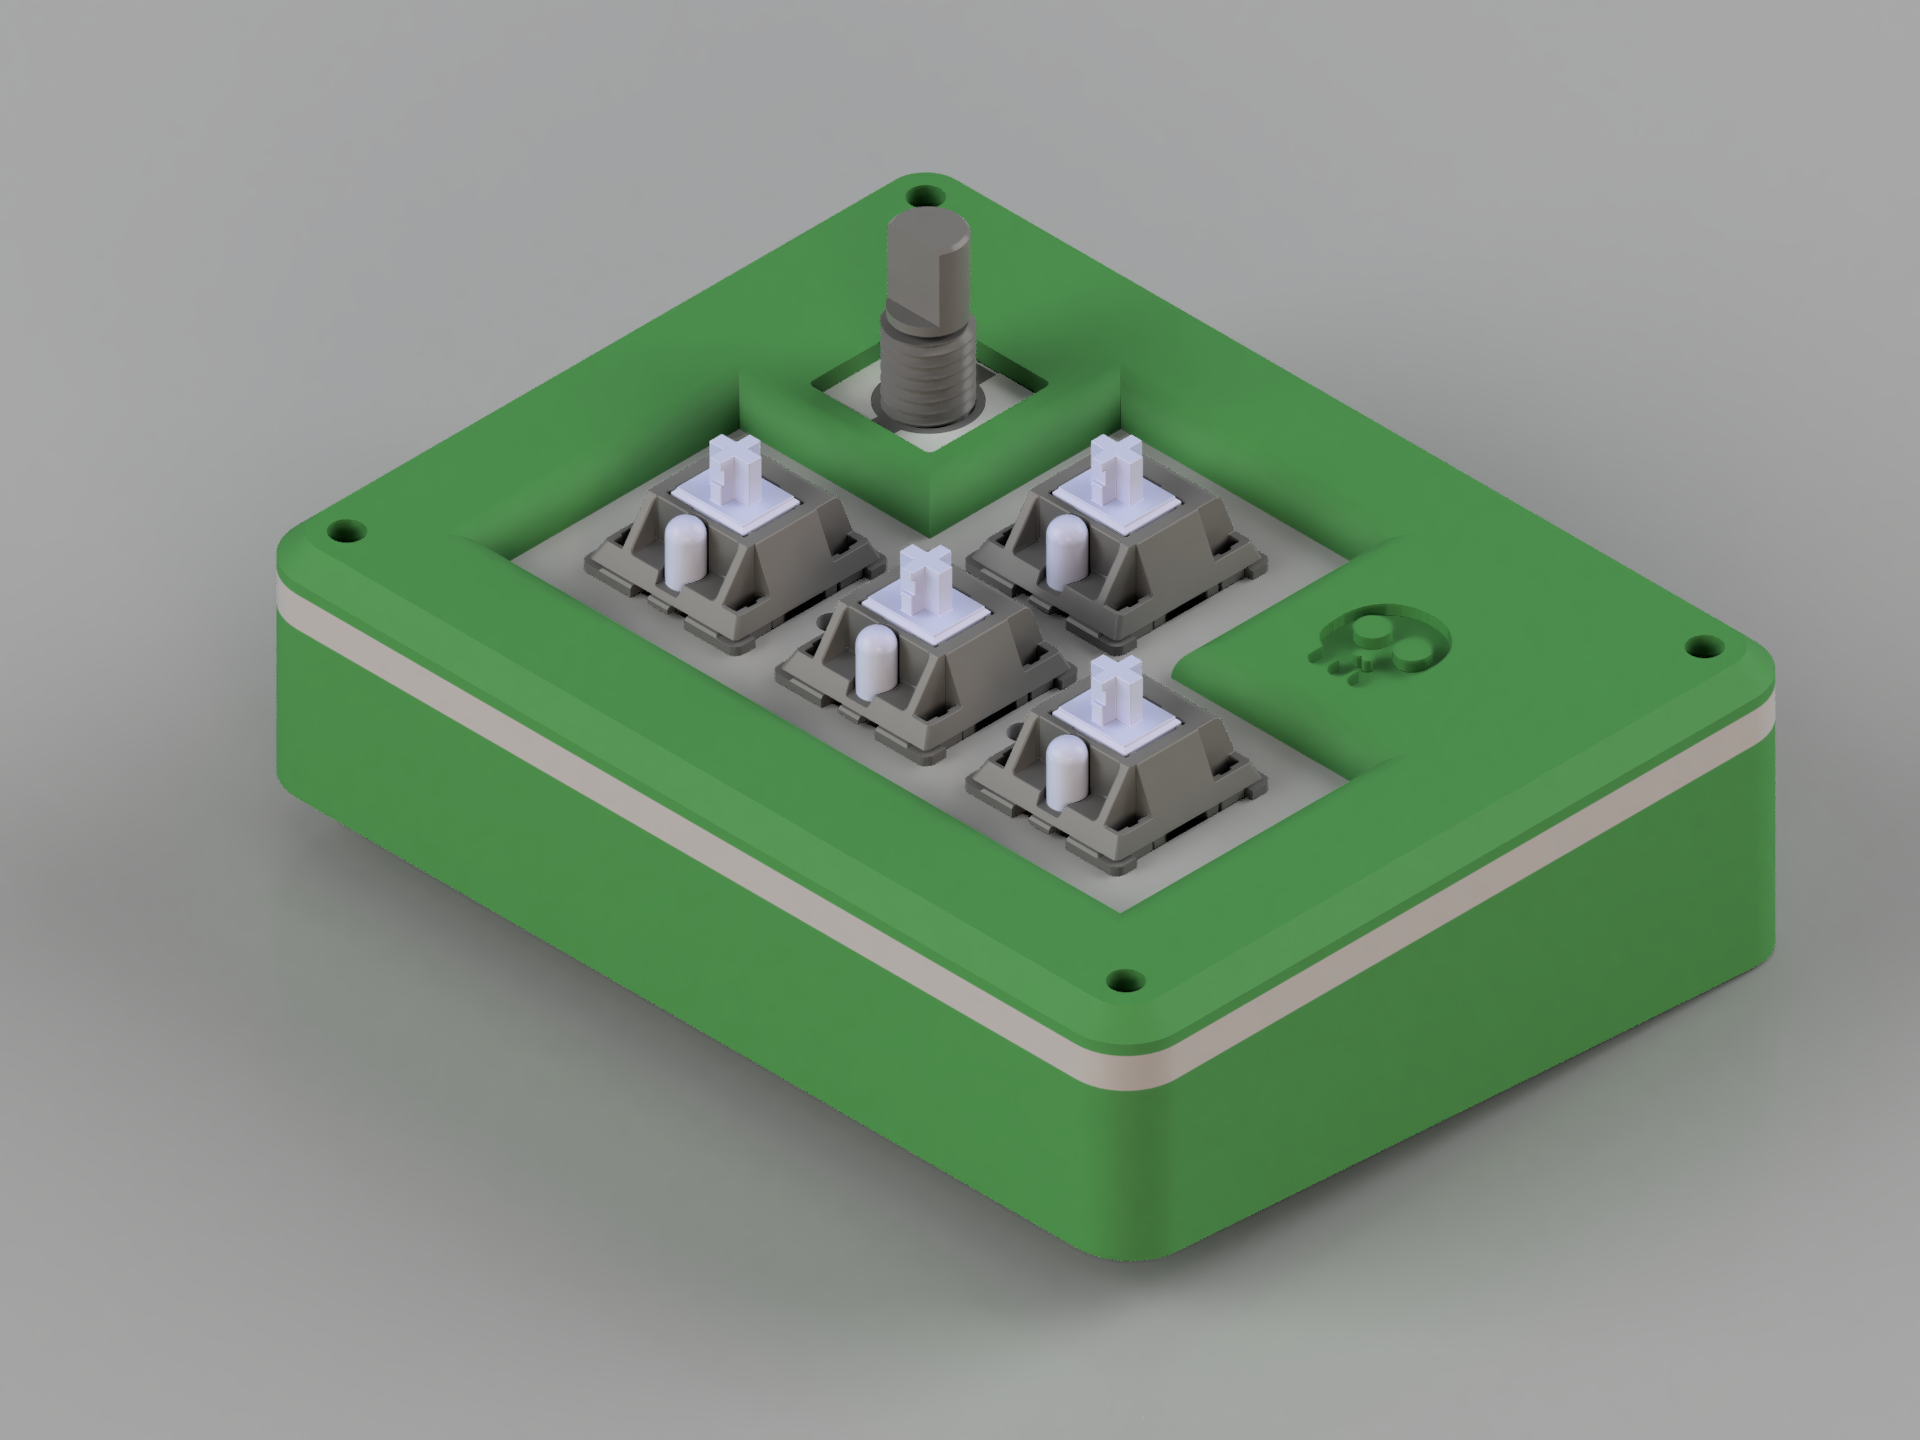
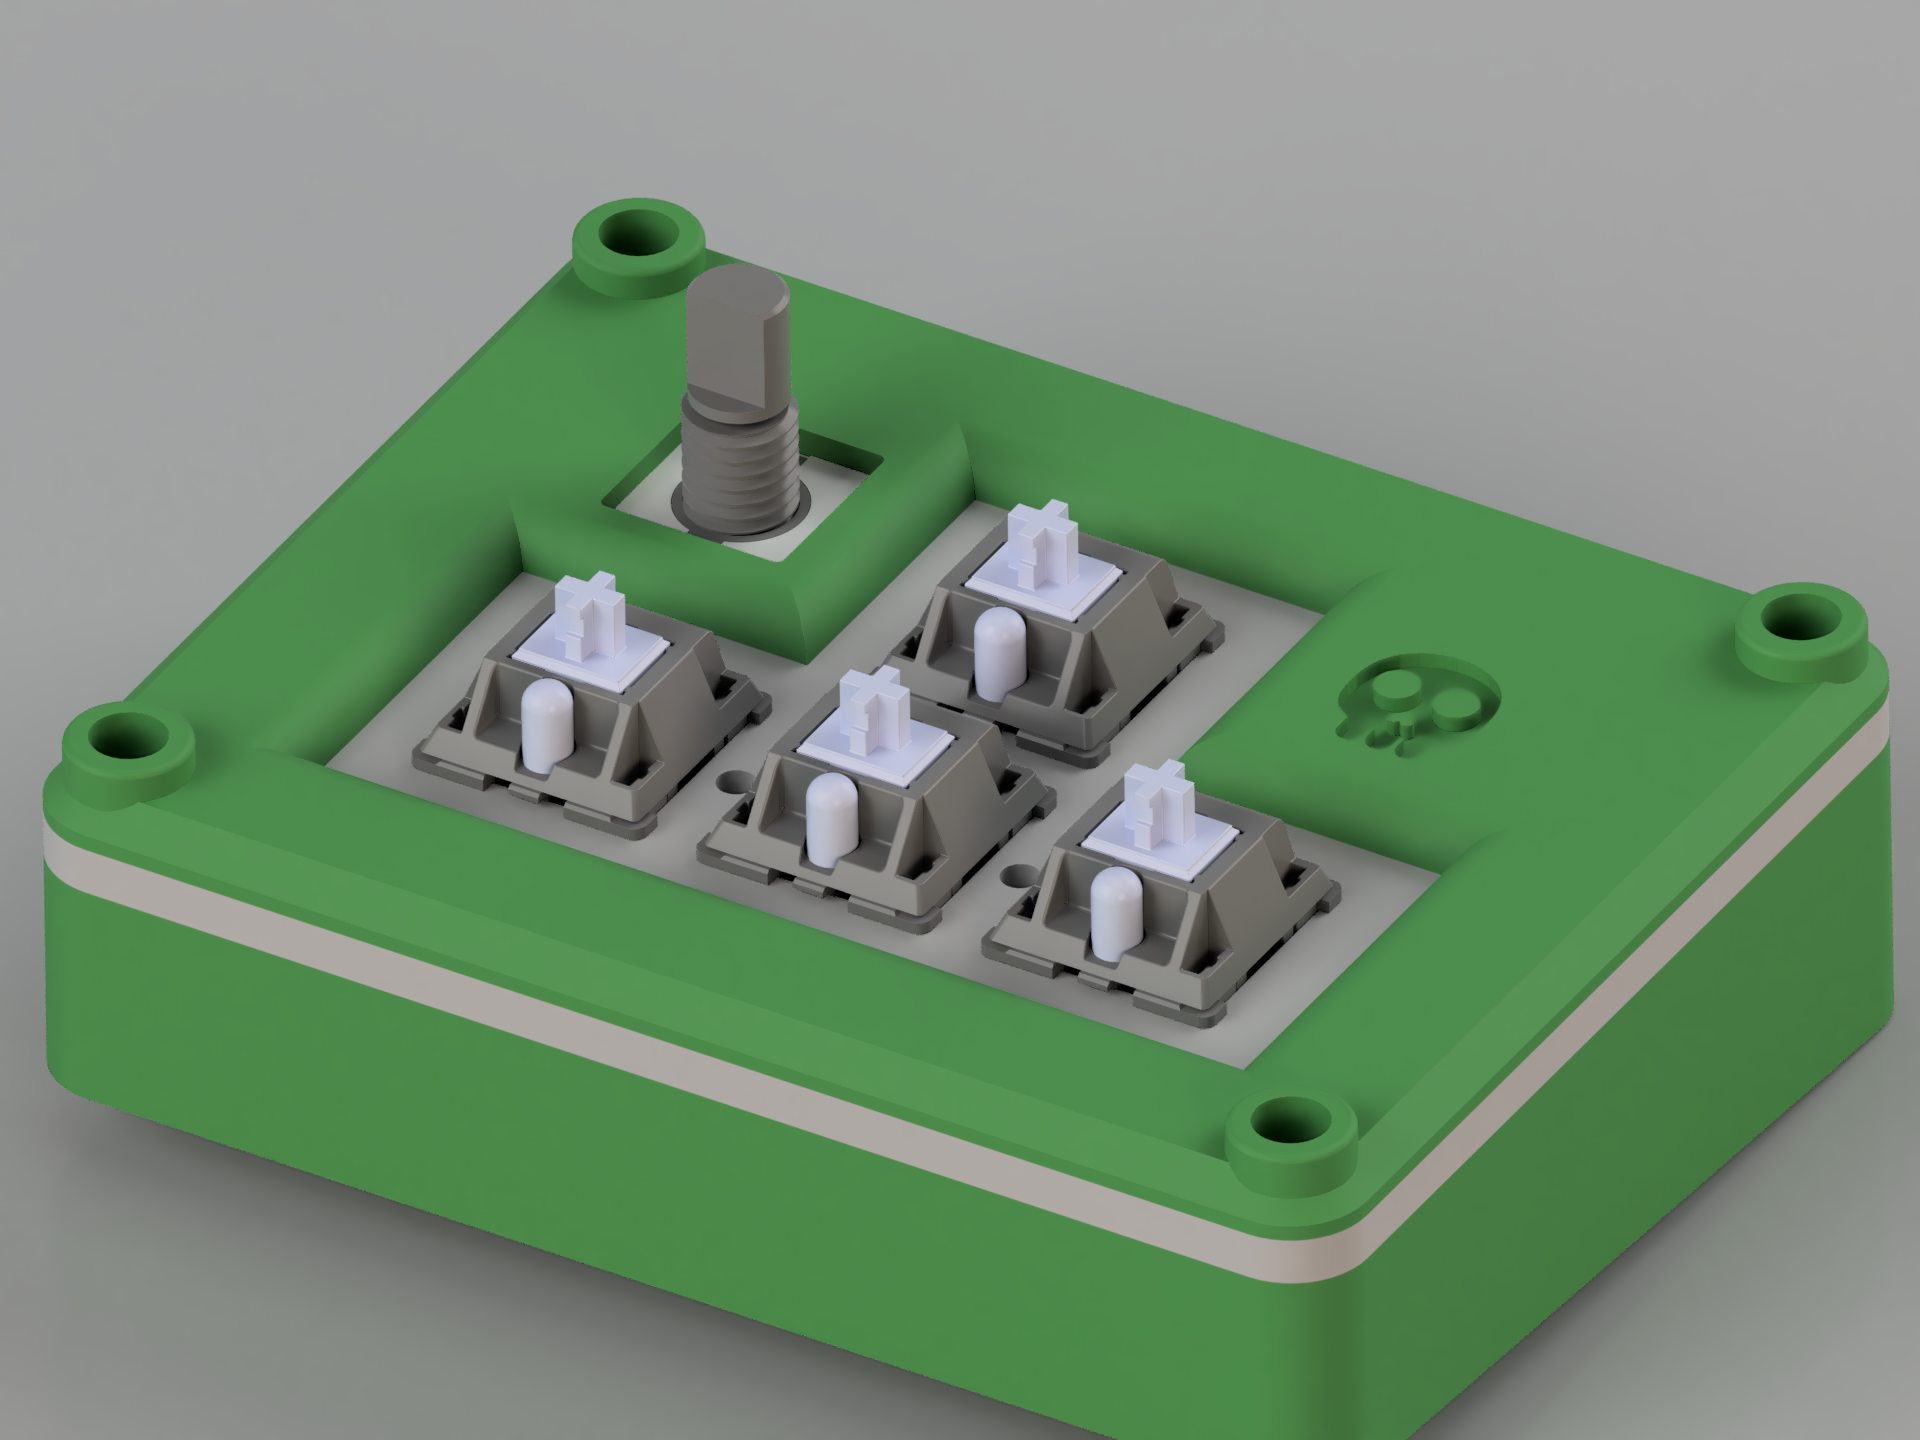
Add rotary encoder feature and CAD details
Added rotary encoder to feature list and documented the elevated holes design decision for heatset inserts. Included new technical drawing image to illustrate the design solution.

diff --git a/README.md b/README.md
@@ -7,6 +7,7 @@ I chose this project as I am comfortable with Fusion 360, and a chance to learn 
 - Cool 3d printed case
 - 2 WS2812B RGB LEDs. Kinda under the keys. I just didn't want it to be too basic. Can also tell me whether its powered on.
 - 4 arrow keys to play games
+- Rotary encoder
 
 ## CAD Model:
 Everything fits together using 4 M3 Bolts and heatset inserts. 4 for the case.
@@ -16,6 +17,10 @@ It has 3 separate printed pieces. The base which has a tilt, the plate to hold t
 Made in Fusion360.
 
 ![Fusion 360 Render](assets/Fusion_Render.png)
+
+I added these elevated holes because the shell was 3mm tall, which is shorter than the depth needed for the heatset inserts. Still looks visually fine I reckon.
+
+![Fusion_Drawing](assets/Fusion_Drawing.png)
 
 ## PCB
 Here's my PCB!💀 It was made in KiCad. I added the silkscreen image by using the build in image converter.